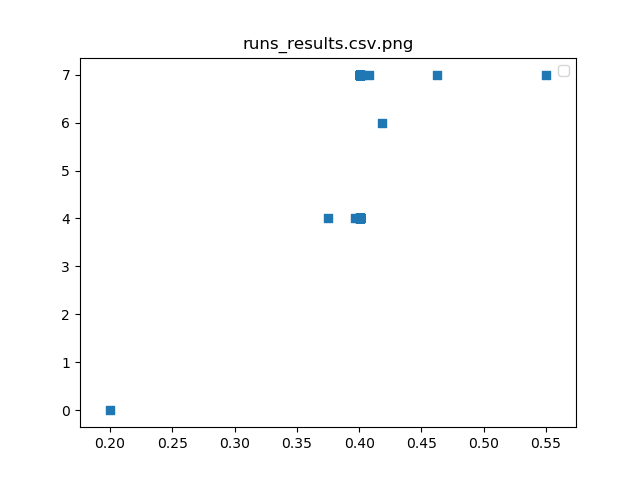
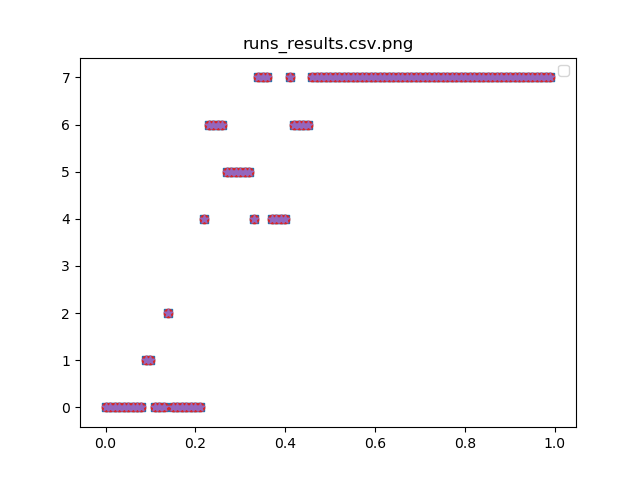
Added a python script to run over many r values and save a plot output

diff --git a/runnerAuto.py b/runnerAuto.py
@@ -1,19 +1,17 @@
 import subprocess
 #subprocess.run(["ls", "-l","-a"])
 import math 
-import numpy as np
 import Plotter.plotter as bplt
 import csv
-N=100000
-TIME_STEPS=2000
+N=10
+TIME_STEPS=20
 p= 0.75
 r= 0.2
 MAX_RUNS = 100
-SAMPLES_PER_r =5
 out_data_path = "runs_results.csv"
 
 rs = []
-final_active_states_counts  = []
+final_active_states_count  = []
 r_upper = 1 
 r_lower =0
 dr =  0.1
@@ -46,29 +44,28 @@ def run_experiment(N,TIME_STEPS,p,r):
 
     return count
 
-r=0
 for s in range(0,MAX_RUNS):
+    
+    final_active_states_count.append(run_experiment(N,TIME_STEPS,p,r))
     rs.append(r)
-    final_active_states_counts.append([])
-    for n in range(0,SAMPLES_PER_r): 
-        final_active_states_counts[-1].append(run_experiment(N,TIME_STEPS,p,r))
-    r = r +1/MAX_RUNS 
-    
-    
-    
-    
-    
-    
-    
-    
-    
+    if(final_active_states_count[-1]>N/2):
+        #Too much spreading, i.e. active states, reduce r
+        r_upper = r+dr
+    elif(final_active_states_count[-1]<N/2):
+        #Too few active states, increase r
+        r_lower = r - dr
+    else:
+        print("Finished")
+        break #Equal, r perfect!
+    r = (r_upper + r_lower)/2
+
 
 
 with open(out_data_path,"w") as fm:
             wt = csv.writer(fm)
-            wt.writerows(zip(rs,final_active_states_counts))
+            wt.writerows(zip(rs,final_active_states_count))
 
 print(r)
 print(len(rs))
-print(len(final_active_states_counts))
-bplt.Plotting.scatter(rs,np.array(final_active_states_counts).T,title=out_data_path+".png")
+print(len(final_active_states_count))
+bplt.Plotting.scatter(rs,[final_active_states_count],title=out_data_path+".png")
